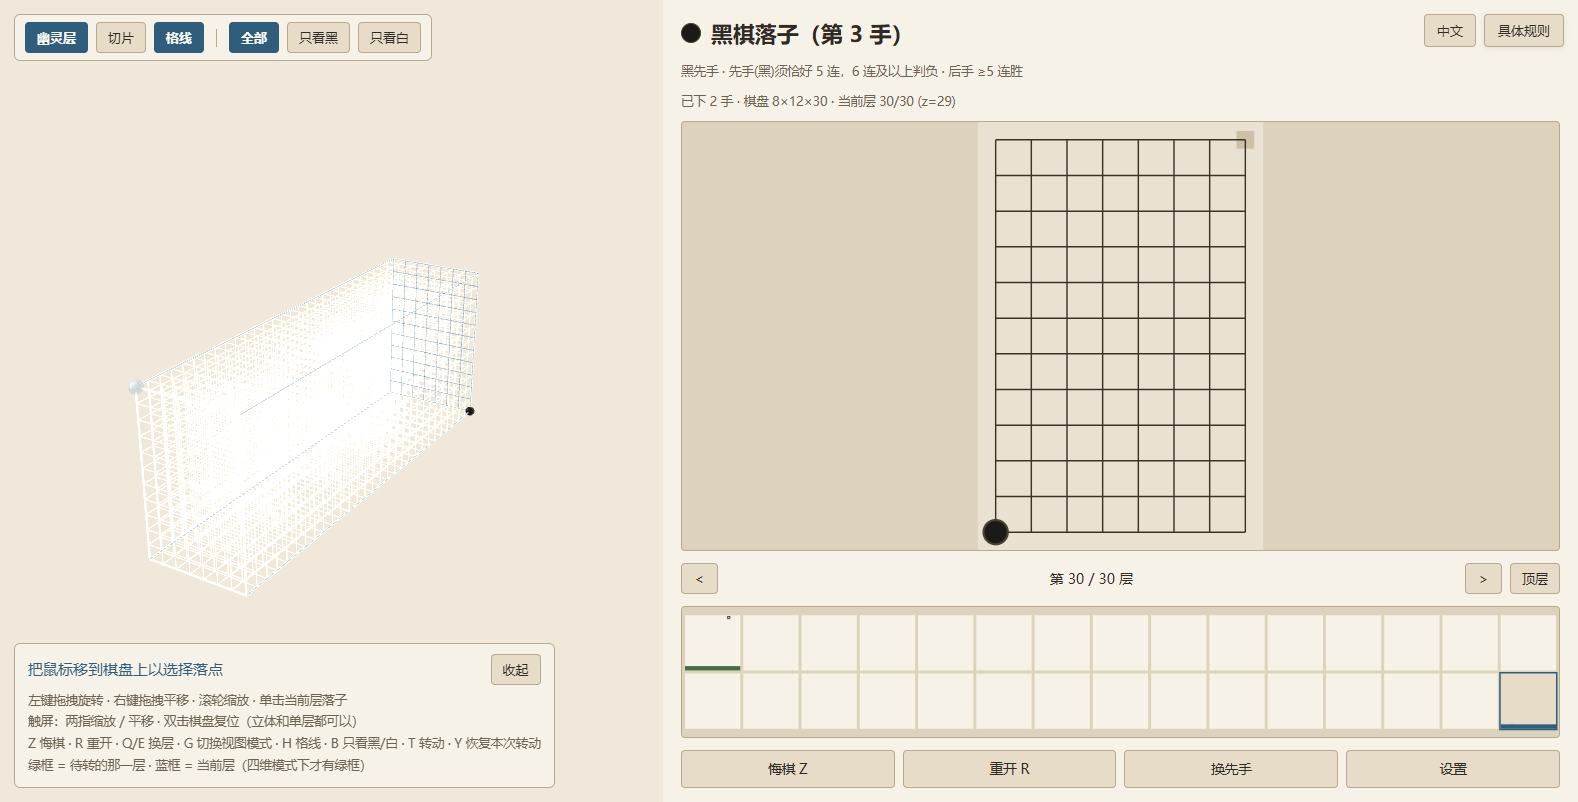
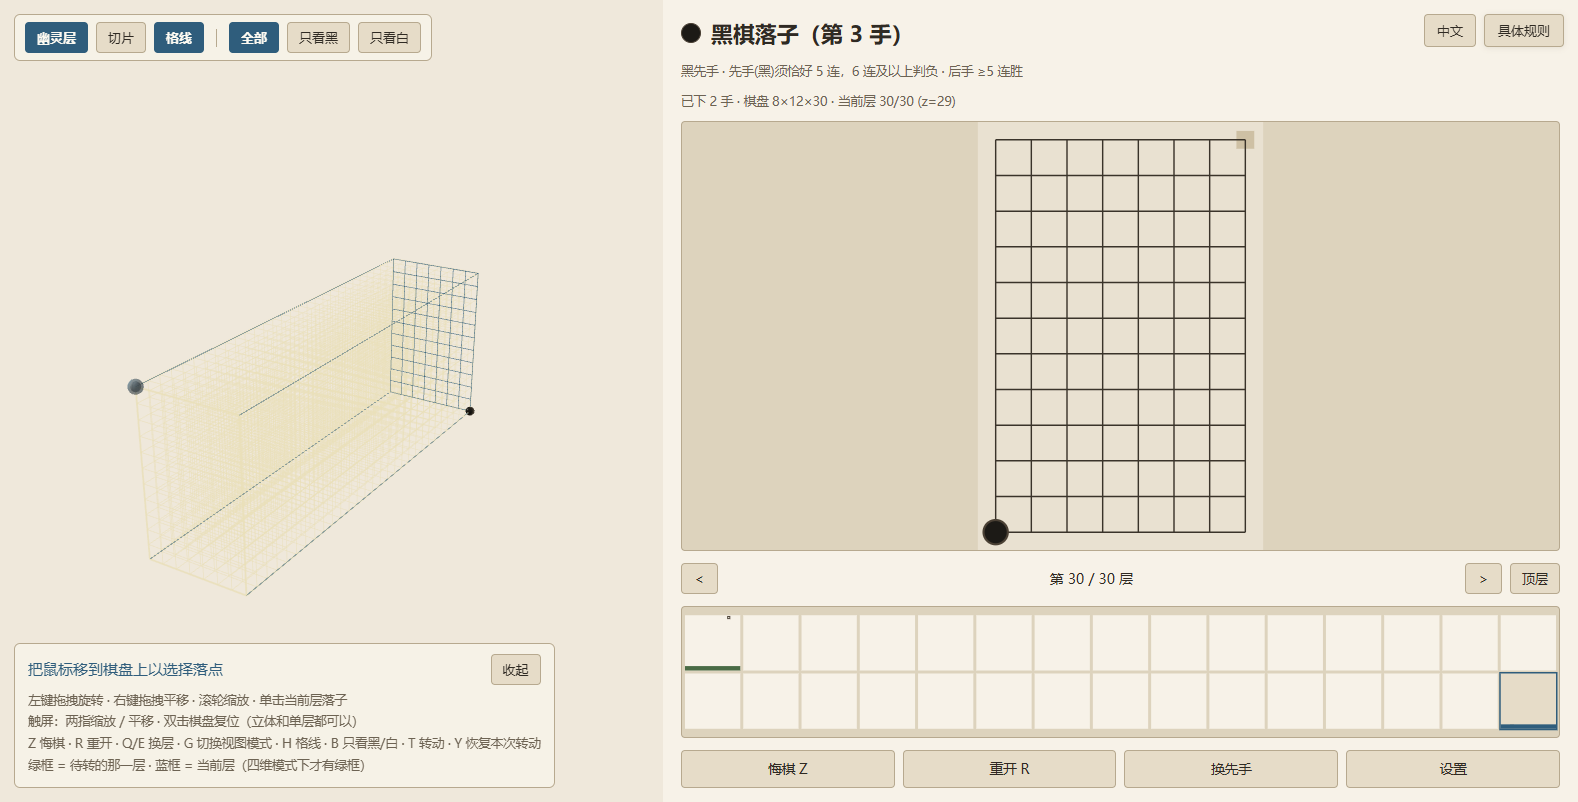
三维格线：修掉"画布 alpha 被写坏"导致的白化，颜色改成更浅的淡黄（v2.10.12）
用户的要求是「把对局界面的立体棋盘格线改得偏黄一点、浅一些、透明一点点，
不要影响观察棋子，尤其是白棋」。先按字面改了颜色（#c5beb4 → #d6cfae、0.55 → 0.45），
做完对拍发现**几乎看不出变化**（4.8% 的像素有差异、最大通道差 25，放大 4 倍肉眼分不出），
于是去查为什么，查出根因不在颜色上：

【根因：格线那一趟把画布的 alpha 写坏了】
画布是 premultipliedAlpha（WebGL 默认），而那一趟 alpha 混合把 alpha 通道也一起写小
（dstA = a·a + dstA·(1−a)：一层掉到 0.75，叠几层掉到 0.48）。合成器按"帧缓冲里
的颜色已经乘过 alpha"去合成，于是又叠了一遍纸底色：

    帧缓冲 rgb(234,225,191)（alpha 134）→ 屏幕 rgb(255,255,255) 纯白

任何浅色格线都会这样被冲白，棋盘内部叠得越多越白 —— 白棋和那片白网糊在一起，
正是用户说的"看不清白棋"。对照实验：把格线设成纯黑，屏幕上也只是 rgb(164,160,153) 的灰，
也就是说在修这一行之前，--grid 填什么颜色根本不影响观感。

顺带说明：这片白化也是"按字面改颜色"改不动观感的原因，所以两件事必须一起做。

【改了什么】
- draw3D 第 2 步（alpha 混合那一段）画之前 gl.colorMask(true,true,true,false)、
  画完恢复。帧缓冲的 alpha 于是始终是清屏时的 255，合成结果 = 帧缓冲，所见即所得。
  **按 setupOpen 分开**：起始界面的演示盘是故意要透出纸纹的（那边清屏就是 (0,0,0,0)），
  那里 alpha 必须可写，否则整块演示盘会消失 —— 那一版一个像素都没动。
- 颜色改成 --grid: #e9dfb7（色相 48°、亮度 82%）、透明度 0.40。
  压在白子上是 rgb(245,239,218)，白子只被压掉 8/11/24 个色阶；
  上一版是 rgb(222,217,208)、压掉 31/33/34 —— 白子会明显发闷。
  压纸上只掉 2/4/14 个色阶（上一版 23/23/21），这就是"浅"的落点。
- 三处注释里的累积透过率跟着改（0.45^n → 0.60^n）。

【这不是"只改了颜色"，得说清楚】
格线那一趟里还有幽灵子、落点光标、获胜连线，它们原来也被同一个机制冲淡了；
alpha 一修，这些叠加层一并变回设计值（蓝框、绿框、金线都比以前实）。
实测同一颗子的帧缓冲颜色前后**完全相同**（都是 rgb(101,114,120)），
变的只有 alpha —— 也就是说棋子的着色一个字没动，之前看到的"发白的棋子"是合成出来的假象。

【证据】
- `bash _verify/run-all.sh` 九步全绿：40758 条断言（含 327 条真实浏览器检查）
- 10 张截图全部重拍（对局相关的 4 张是真实变化；起始界面那 6 张只受调色板影响，
  已与 HEAD 的干净副本逐像素对过，差异全部落在演示盘区域内、量级 1.3~3.2 个色阶）

Changed region(s): [[0.0621, 0.3117, 0.3105, 0.7481]]

diff --git a/Web_Gomoku3D/index.html b/Web_Gomoku3D/index.html
@@ -31,12 +31,19 @@
     --cell:      #e9e1d1;   /* 二维板面 */
     --cell-hint: #cec0a4;
     --border:    #b7a98f;
-    /* 三维静态格线（那层灰网）的颜色。**为什么不复用 --border**：--border 是暖褐色，
+    /* 三维静态格线（那层网）的颜色。**为什么不复用 --border**：--border 是暖褐色，
        画在同样暖的纸底上那层网是「有颜色的」，一大片铺开之后偏亮、偏跳；
        而它同时又是所有按钮和边框的颜色，改它等于把整套界面都改了。
-       这里单独取一个更灰、更浅的色：R−B 从 40 收到 17（去色），亮度从 64% 提到 74%（变浅），
-       叠上 0.55 的透明度之后落在纸上比原来浅 9 个色阶，色相从暖褐变成中性灰。 */
-    --grid:      #c5beb4;
+       这里单独取一个更浅、偏黄的色：色相 48°（上一版是 35° 的灰、更早是 --border 那支暖褐），
+       亮度 82% —— 比 --border(#b7a98f) 亮 18 个色阶、比上一版 --grid(#c5beb4) 亮 8 个。
+       **这个值是所见即所得的**（alpha 那一趟修好之后，见 draw3D 第 2 步那段），
+       所以它同时也是棋盘内部那片密网的颜色：内部叠到饱和时收敛到的就是它本身。
+       【白棋那一头是硬约束】：格线不写深度，近处的线会直接压在棋子上，
+       压上去之后那个像素就是"0.40·本色 + 0.60·棋子色"。
+       本版压在白子(#fdfaf2)上是 rgb(245,239,218)，白子只被压掉 8/11/24 个色阶；
+       上一版（#c5beb4 @ 0.55）是 rgb(222,217,208)，压掉 31/33/34 —— 白子会明显发闷。
+       压纸上同理：本版只掉 2/4/14 个色阶，上一版掉 23/23/21，这就是"浅"的落点。 */
+    --grid:      #e9dfb7;
     --text:      #2f2a23;   /* 墨 */
     --dim:       #6d6353;
     --black:     #1c1a16;
@@ -2539,7 +2546,7 @@ sur un plateau 15×15×15, une couche contient en moyenne moins d'un pion, et la
       <!-- 隐藏三维静态格线。`sel` 表示"格线可见"（默认），和 modeGhost 的 sel=幽灵层生效
            是同一套语义：亮着 = 这个东西有作用。
            存在的理由见 uploadGrid / gridSegments 那段注释：格线是 alpha 混合画的，
-           n 层屏幕位置重合的线累积透过率是 0.45^n，15³ 时已经是 6.3e-6 ——
+           n 层屏幕位置重合的线累积透过率是 0.60^n，15³ 时已经是 4.7e-4 ——
            立方体内部会读成一片灰网，盘里的子被糊得看不见。这是"从 15³ 起就必然发生"的，
            不是大棋盘才有的问题，所以需要一个一键关掉它的开关。 -->
       <button id="modeGrid" class="mini sel" data-i18n="modeGrid">格线</button>
@@ -5091,7 +5098,7 @@ function fingerprint(s) {
    -------------------------------------------------------------------------- */
 const FALLBACK_COLORS = {
   "--bg": "#efe8db", "--panel": "#f7f2e8", "--panel-hi": "#e6dcc8",
-  "--cell": "#e9e1d1", "--cell-hint": "#cec0a4", "--border": "#b7a98f", "--grid": "#c5beb4",
+  "--cell": "#e9e1d1", "--cell-hint": "#cec0a4", "--border": "#b7a98f", "--grid": "#e9dfb7",
   "--text": "#2f2a23", "--dim": "#6d6353", "--black": "#1c1a16", "--white": "#fdfaf2",
   "--accent": "#2f5d7c", "--gold": "#9c6b1f", "--danger": "#9c3428", "--ok": "#4a6b45",
   "--hover-line": "#c8452e", "--line2d": "#3a332a", "--well": "#ddd3bd",
@@ -7347,8 +7354,8 @@ const Game = {
     // 框满，所以 n 变大只是"同样的密度里塞进更多条"，要到 n≈300 才会碰到像素间距。
     //
     // 真正的代价是【深度感】：视线穿过立方体时会依次叠上 n 层屏幕位置完全重合的
-    // 平行格线，而格线是 alpha 混合画的，累积剩余透过率是 0.45^n：
-    // n=10 是 3.4e-4、n=15 是 6.3e-6 —— 【从 15³ 起内部就已经叠到饱和了】，
+    // 平行格线，而格线是 alpha 混合画的，累积剩余透过率是 0.60^n：
+    // n=10 是 6.0e-3、n=15 是 4.7e-4 —— 【从 15³ 起内部就已经叠到饱和了】，
     // 不是"大棋盘才有"的问题。所以立方体内部会读成一片灰网，而不是"近处清楚、远处淡"；
     // n 变大只是让这张网更密。这是 alpha 混合叠同位置图元的固有问题，
     // 调 alpha 只能整体变淡、消不掉。想要深度感就把 draw3D 里的 depthMask(false)
@@ -7736,6 +7743,23 @@ const Game = {
     gl.enable(gl.BLEND);
     gl.blendFunc(gl.SRC_ALPHA, gl.ONE_MINUS_SRC_ALPHA);
     gl.depthMask(false);
+    // 【这一趟不许写 alpha，否则浅色格线会被合成器冲成纯白】—— 下面是实测记录。
+    //
+    // 画布是 premultipliedAlpha，而 alpha 混合把 alpha 通道也一起写小了
+    // （dstA = a·a + dstA·(1−a)：一层就掉到 0.75，叠几层掉到 0.48）。
+    // 合成器按"帧缓冲里的颜色已经乘过 alpha"去合成，于是又叠了一遍纸底色：
+    // 【帧缓冲里 rgb(234,225,191) 的淡黄线（alpha 134），到屏幕上成了 rgb(255,255,255) 的纯白】，
+    // 棋盘内部叠得越多越白 —— 白棋和那片白网糊在一起，正是"看不清白棋"的根源。
+    // 对照实验：把格线设成纯黑，屏幕上也只是 rgb(164,160,153) 的灰。
+    // 也就是说修这一行之前，--grid 填什么颜色【根本不影响观感】。
+    // 关掉 alpha 写入之后帧缓冲的 alpha 始终是清屏时的 255，
+    // 合成结果 = 帧缓冲（同一点：rgb(234,225,191) 进、rgb(235,225,194) 出），所见即所得。
+    //
+    // **只有对局态能这么干**：起始界面的演示盘是故意要透出纸纹的（那边清屏就是 (0,0,0,0)），
+    // 那里 alpha 必须可写，否则整块演示盘会直接消失。所以这里按 setupOpen 分开。
+    //
+    // 幽灵子、光标、获胜连线都在这一趟里，一起受益：它们原来也被同一个机制冲淡了。
+    if (!this.setupOpen) gl.colorMask(true, true, true, false);
     // 静态格线可以整体关掉。**只跳过这一次 drawLines，不动 staticGridCount、
     // 也不重传缓冲** —— 见 Game.gridVisible 的注释。
     //
@@ -7747,7 +7771,7 @@ const Game = {
     // 这正是"只隐藏静态灰网"这个产品选择在代码里的落点，dom-smoke 有一条测试
     // 盯着关闭时 active 仍然被画。
     if (this.gridVisible) {
-      Renderer.drawLines("static", this.staticGridCount, vp, Palette.rgba("--grid", 0.55), 1.0);
+      Renderer.drawLines("static", this.staticGridCount, vp, Palette.rgba("--grid", 0.40), 1.0);
     }
     Renderer.drawLines("active", this.activeGridCount, vp, Palette.rgba("--accent", 0.80), 1.0);
     // 待转的那一层（绿）：四维模式下才画。和蓝色的"当前层"是两个独立的东西 ——
@@ -7779,6 +7803,9 @@ const Game = {
       this.drawInstances(Renderer.cursorBuf, Renderer.cursorCol, 1, vp, 0.8, 0.6, 0.0, 0.6, 0.0);
     }
 
+    // 恢复 alpha 写入。**必须在 draw3D 退出前恢复**：gl.clear 同样受 colorMask 管，
+    // 漏了这一步，下一帧的清屏就清不动 alpha（起始界面和对局态来回切时最先现形）。
+    gl.colorMask(true, true, true, true);
     gl.depthMask(true);
     gl.disable(gl.BLEND);
   },

diff --git a/README.en.md b/README.en.md
@@ -256,6 +256,7 @@ is in [Web_Gomoku3D/README.md](Web_Gomoku3D/README.md) — in Chinese.
 
 ### 2026.09.27
 
+- 🐛 **v2.10.12** Fixed a few problems
 - 🎨 **v2.10.11** 4D rotation panel: "Confirm" and "Cancel" are now permanent — greyed out and inert until you press "Rotate", when they light up with a ring. The "Restore rotation" button is gone (that slot now holds these two); use Undo or the `Y` key for the same thing.
 - ✨ **v2.10.10** Rotating a layer in 4D is now two steps: "Rotate" first **turns the board so you can see it** (no turn used, not counted as a move); the two buttons then become "Confirm" and "Cancel" with a highlighted ring, and only "Confirm" makes it real. No placing stones during the preview.
 - 🎨 **v2.10.9** Colour tweaks: ghost-layer stones are a shade deeper, and the 3D static grid is now a greyer, paler tone (it used to be a warm brown that read as too loud once a whole board was covered); in 4D the computer no longer rotates layers constantly — it rotates only when that genuinely breaks up an open three or better, and its 4D search now goes deeper

diff --git a/README.md b/README.md
@@ -223,6 +223,7 @@ bash _verify/run-all.sh
 
 ### 2026.09.27
 
+- 🐛 **v2.10.12** 修复若干问题
 - 🎨 **v2.10.11** 调整四维转动面板：「确定操作」「取消操作」改成常驻，平时灰显不可点、点「执行转动」后才亮起并带亮圈；「恢复本次转动」的按钮撤掉（那个位置让给这两个键），功能改用「悔棋」和 `Y` 键
 - ✨ **v2.10.10** 四维转动改成两步：点「执行转动」先**把棋盘转给你看**（不消耗回合、不算一步），这时原来的两个键换成「确定操作」「取消操作」并带亮圈，「确定操作」才真的落地；预览期间落不了子
 - 🎨 **v2.10.9** 调整配色：幽灵层的棋子加深一档，三维静态格线改成更灰、更浅的颜色（原来是暖褐色，铺开一大片偏跳）；四维下电脑对手不再一直转动层，改成只在能真的拆掉对方活三以上的阵型时才转，四维的搜索深度也一并加深
